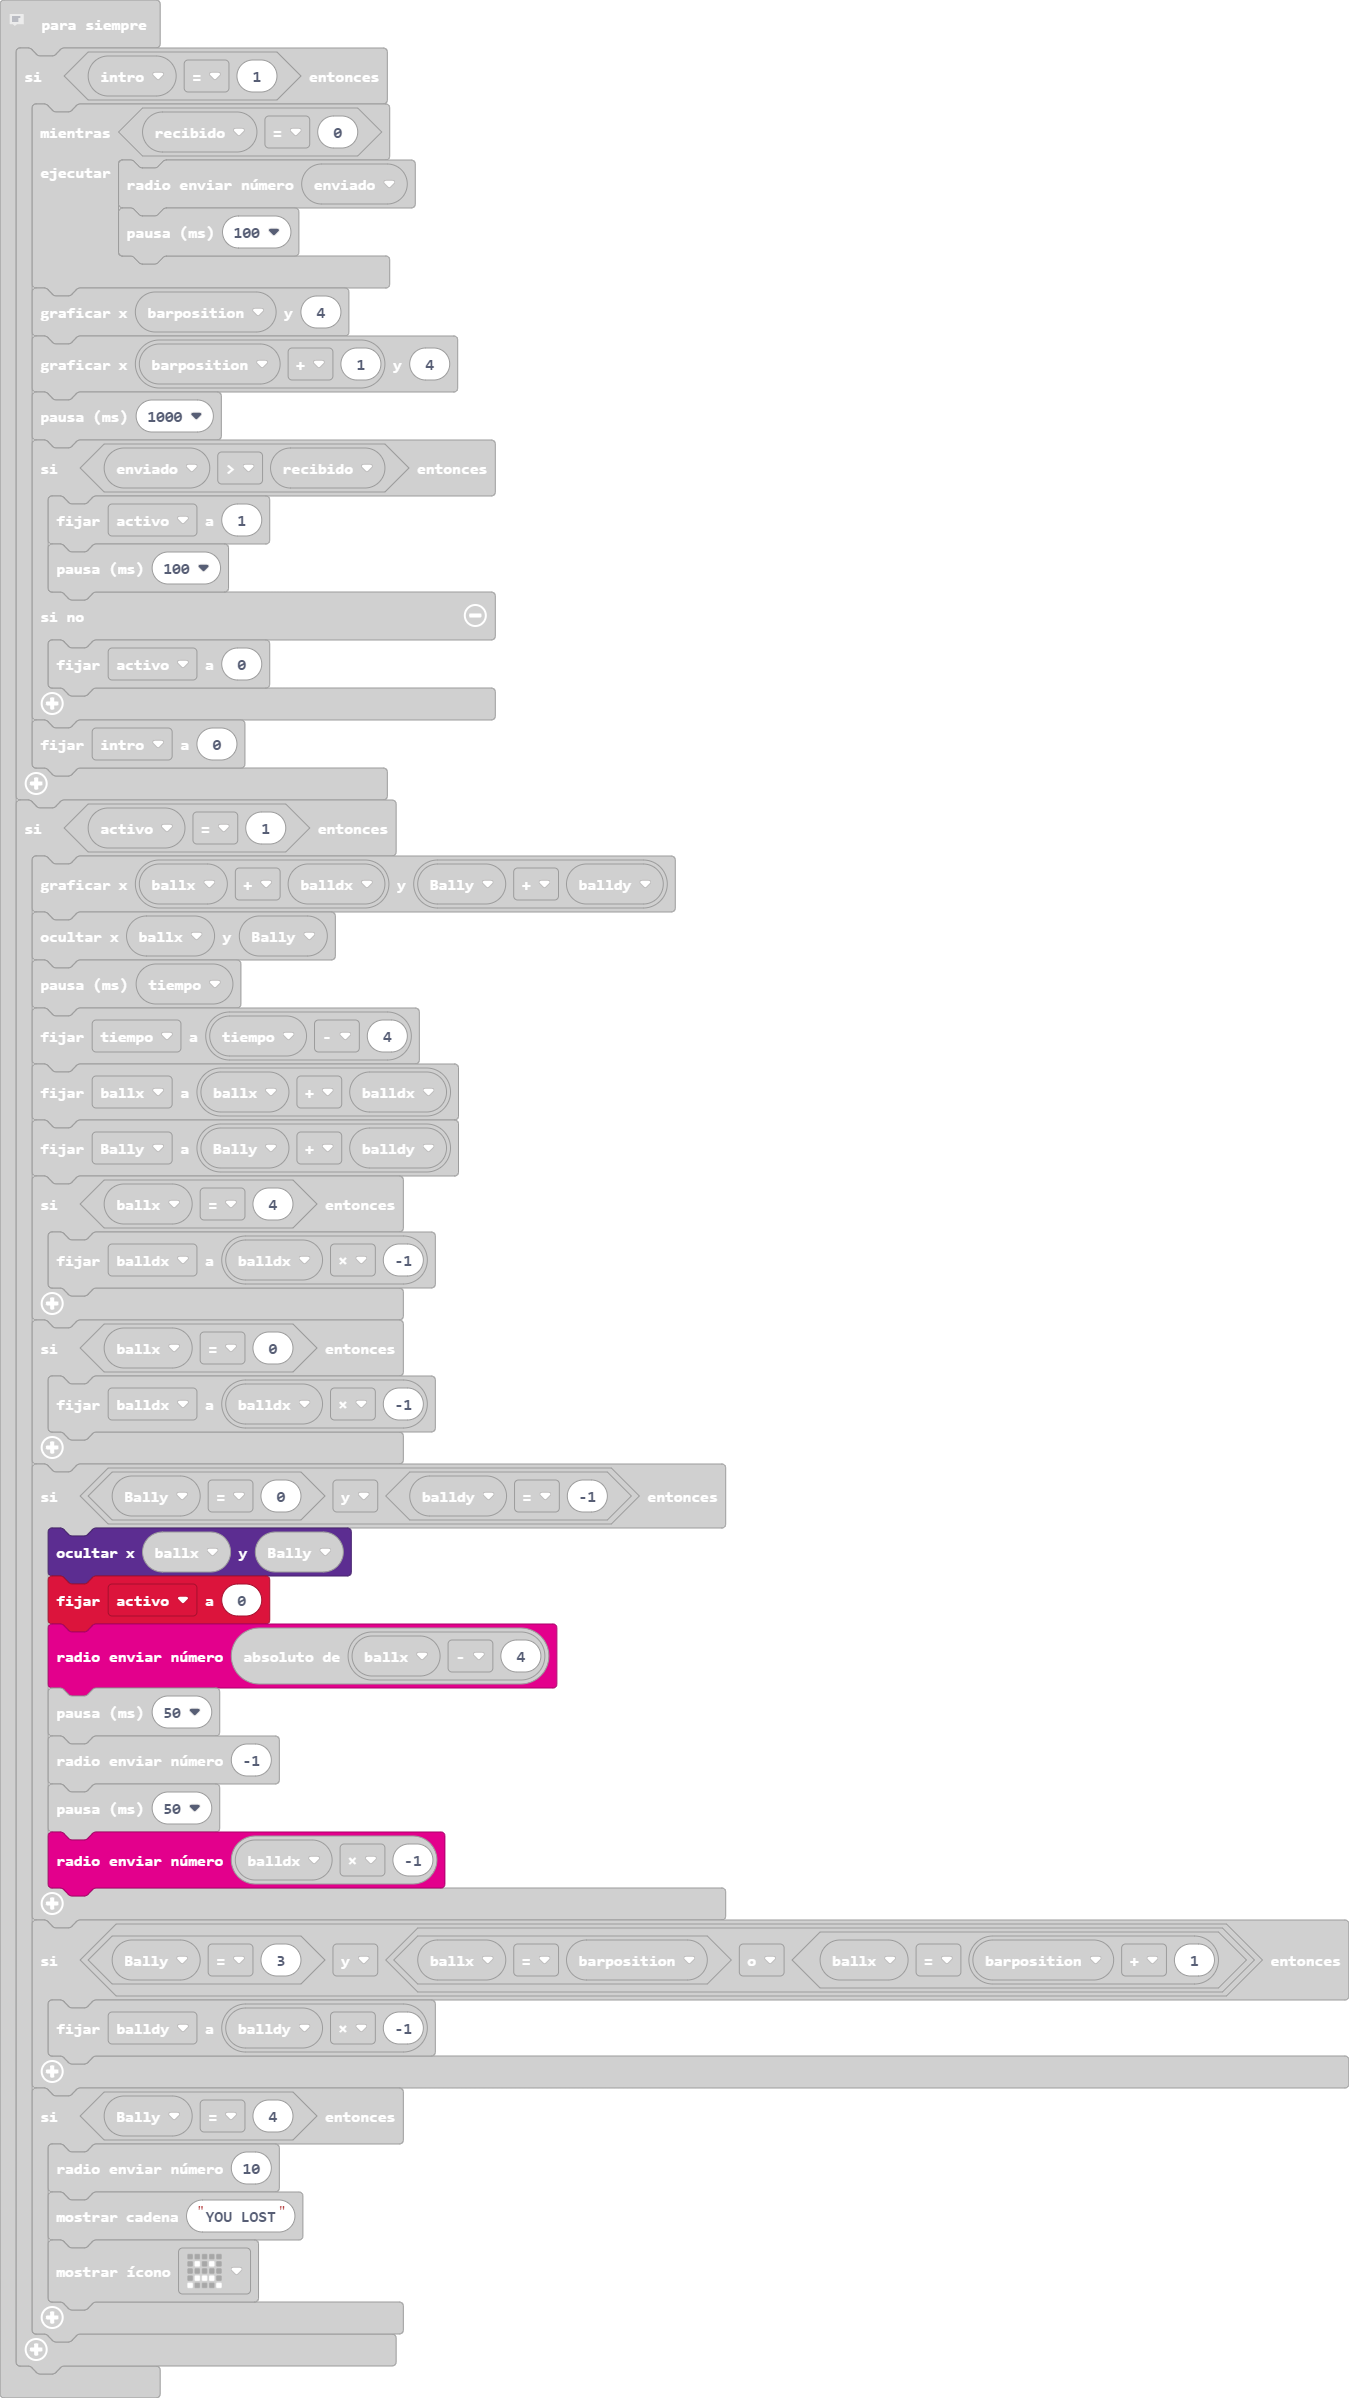
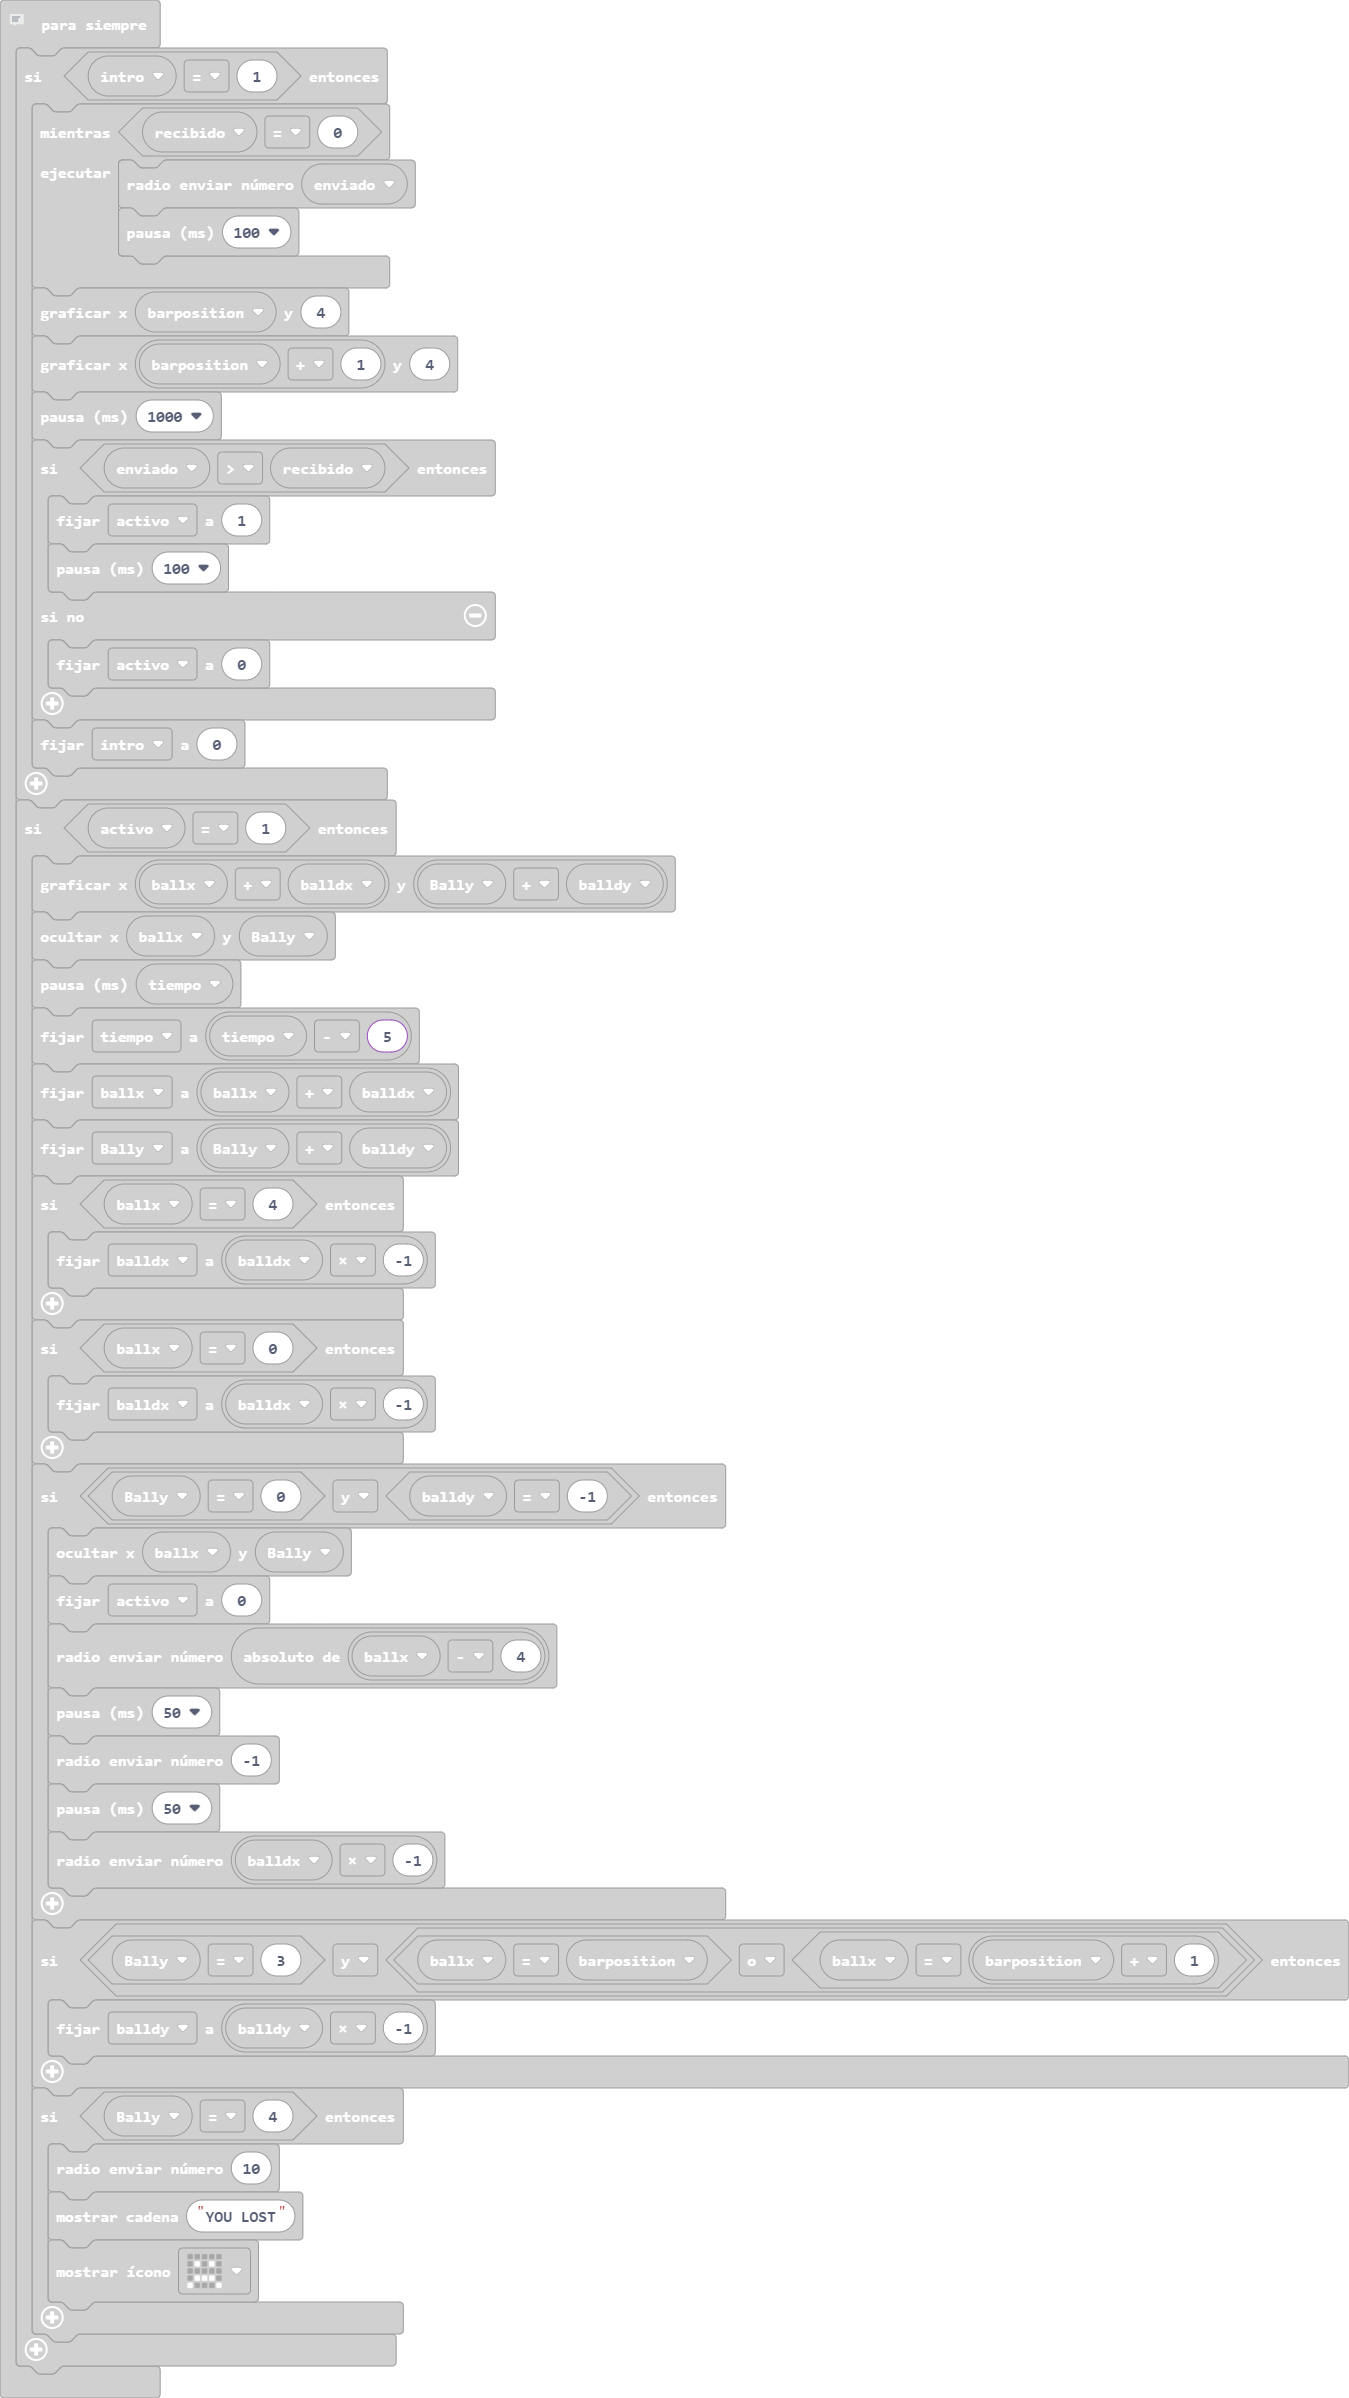
100,1% DEFINITIVO

diff --git a/main.ts b/main.ts
@@ -94,7 +94,7 @@ basic.forever(function () {
         led.plot(ballx + balldx, Bally + balldy)
         led.unplot(ballx, Bally)
         basic.pause(tiempo)
-        tiempo = tiempo - 4
+        tiempo = tiempo - 5
         ballx = ballx + balldx
         Bally = Bally + balldy
         if (ballx == 4) {
